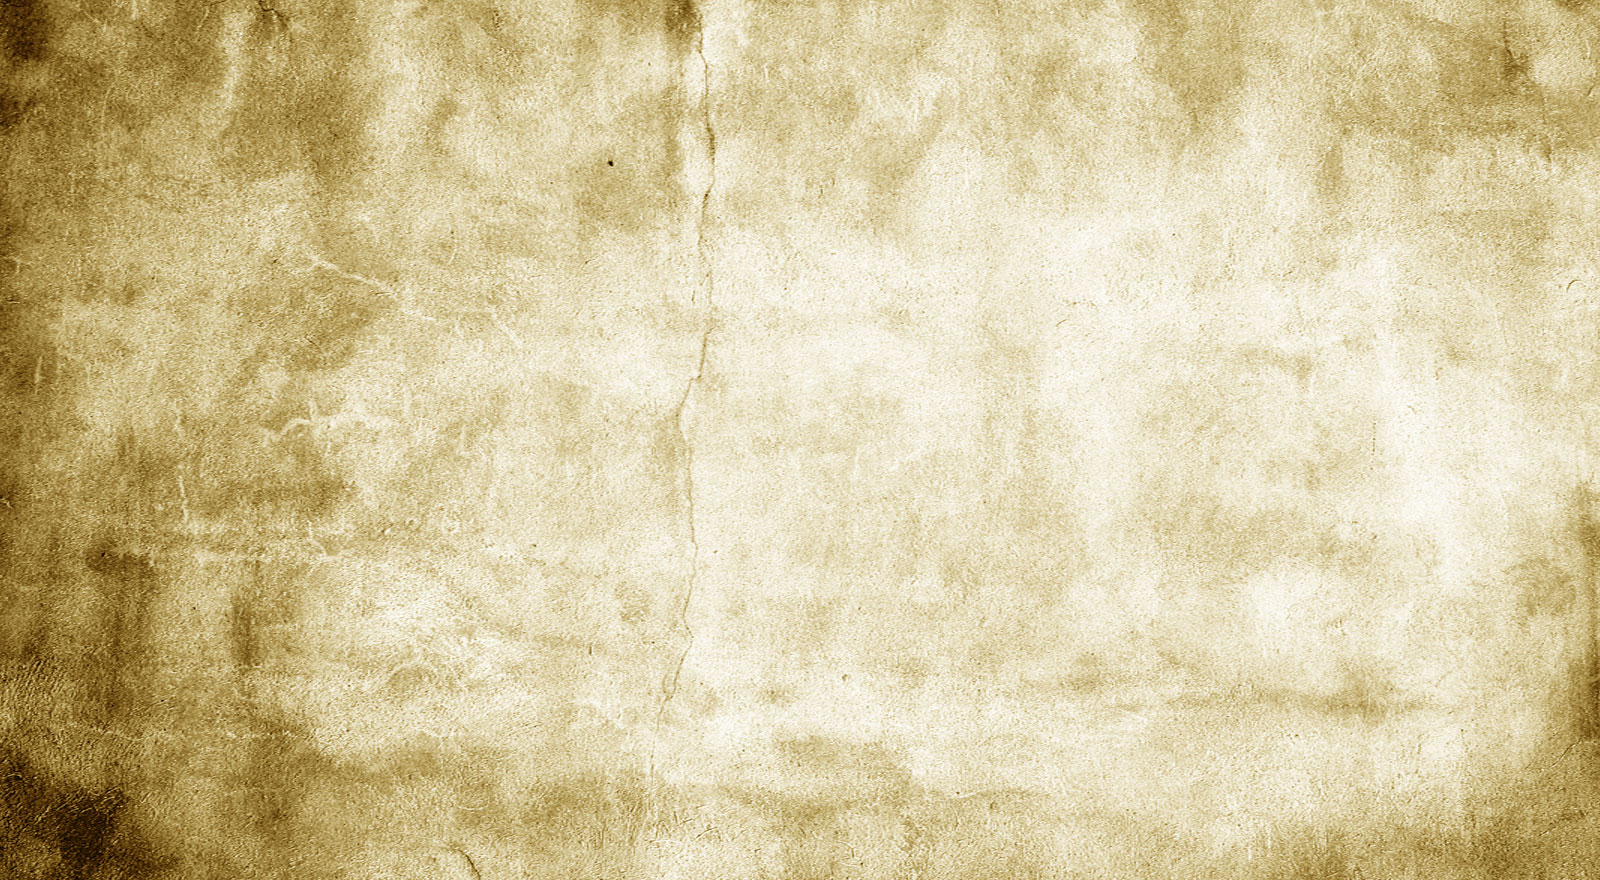
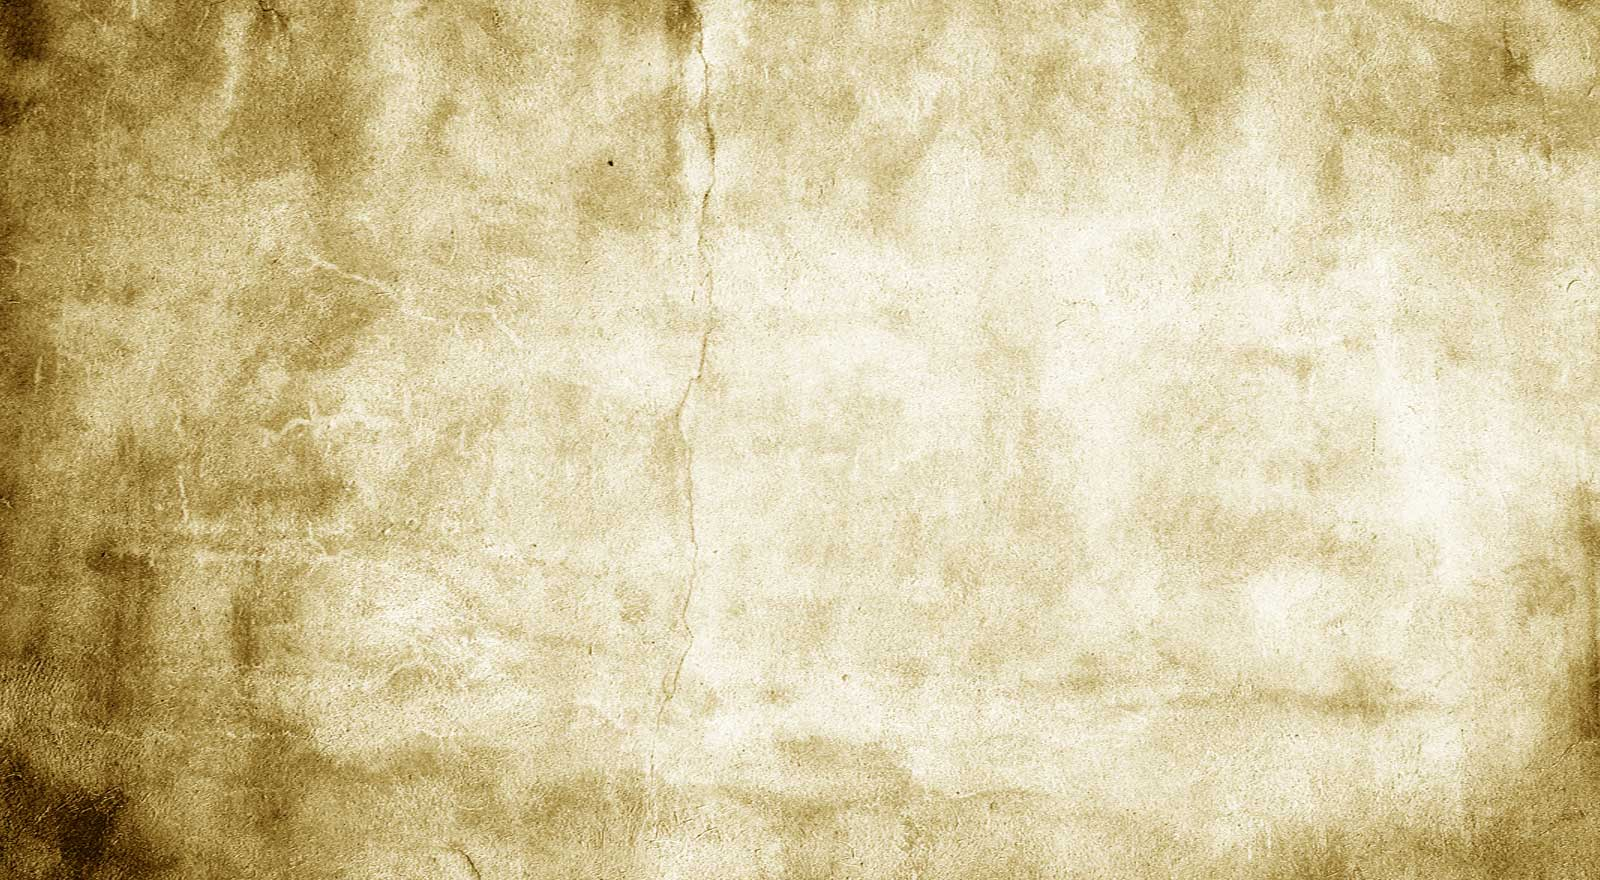
updates readme, removes high rez background img

diff --git a/app/styles/main.css b/app/styles/main.css
@@ -10,7 +10,7 @@ a {
 }
 body {
     height: 100%;
-    background: url(../images/background.png);
+    background: url(../images/background.jpg);
     background-size: cover;
     overflow: hidden;
 }

diff --git a/README.md b/README.md
@@ -1,3 +1,26 @@
 <p style='text-align: center;'>
 <strong>ng-Calculate</strong>
 <br>
+Angular.js, Node.js, Express.js
+<br>
+- Scott Jason -
+<br>
+
+To run in your local environment, please make sure you have Node and bower installed.
+
+Then in the root directory, type :
+
+	npm install && bower install
+
+And again in the root directory, type :
+
+	node server
+
+Navigate to http://localhost:3000 to start calculating.
+
+
+--------------------------------------------------------------
+
+To visit the live site :
+
+	http://ngcalculate-40270.onmodulus.net/
